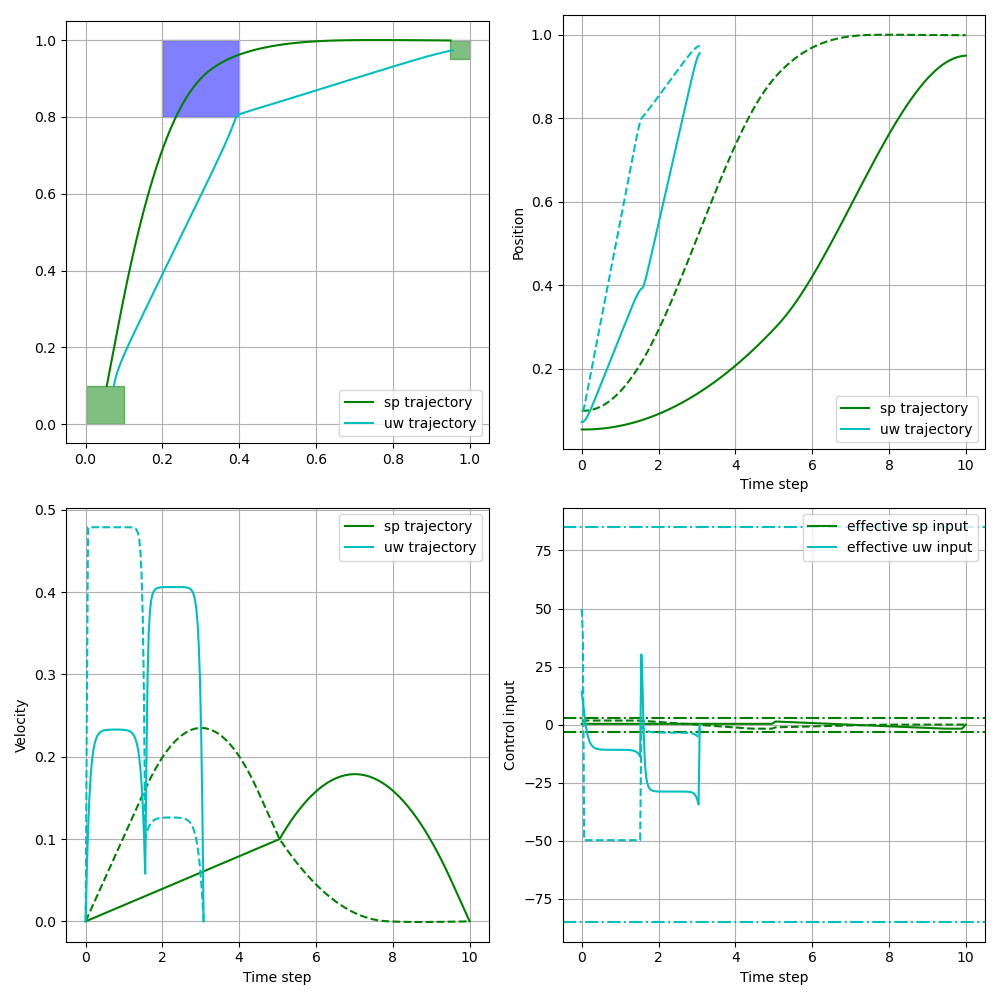
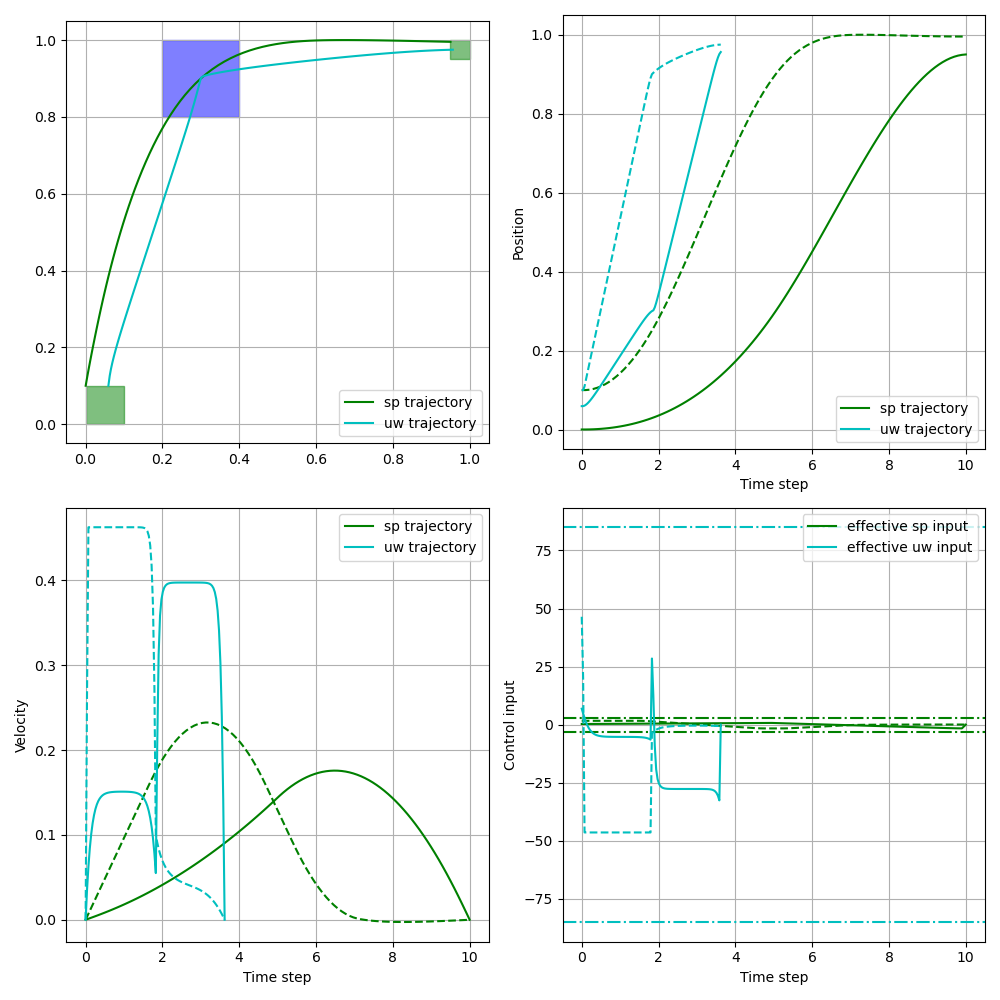
added spatial robustness to uw planner

diff --git a/Planning/main.py b/Planning/main.py
@@ -53,10 +53,10 @@ if True:
     opt.addConstr(x_vars[0, :] <= X0.upper_bounds)
     opt.addConstr(x_vars[-1, :] >= Xf.lower_bounds)
     opt.addConstr(x_vars[-1, :] <= Xf.upper_bounds)
-    opt.addConstr(x_vars[int(N/2), :] >= XA.lower_bounds)
-    opt.addConstr(x_vars[int(N/2), :] <= XA.upper_bounds)
 
     # spatial robustness of the specification (stay-in at N/2)
+    # opt.addConstr(x_vars[int(N/2), :] >= XA.lower_bounds)
+    # opt.addConstr(x_vars[int(N/2), :] <= XA.upper_bounds)
     delta = opt.addVar(lb=0, ub=np.inf, name="spatial_robustness")
     for face_idx in range(len(XA.b)):
         c = -XA.A[face_idx, :]@x_vars[int(N/2), 0:2] + XA.b[face_idx]
@@ -276,13 +276,19 @@ elif True:
     ocp.subject_to(x_vars[:,int(N/2)] >= XA.lower_bounds)
     ocp.subject_to(x_vars[:,int(N/2)] <= XA.upper_bounds)
 
+    # spatial robustness of the specification (stay-in at N/2)
+    delta = ocp.variable(1)
+    for face_idx in range(len(XA.b)):
+        c = -cs.mtimes(np.array([XA.A[face_idx, :]]),x_vars[0:2,int(N/2)]) + XA.b[face_idx]
+        ocp.subject_to(c >= delta)
+
     #TODO: add obstacle avoidance constraints
 
     # objective
-    cost_eq = dt_vars
+    cost_var = 100*dt_vars - 10000*delta
     # for i in range(N):
     #     cost_eq += (u_vars[:,i]).T@(u_vars[:,i])
-    ocp.minimize(cost_eq)
+    ocp.minimize(cost_var)
     opts = {'ipopt.print_level': 0, 'print_time': 0, 'ipopt.sb': 'yes',
             'verbose':False, 'ipopt.tol': 1e-6, 'ipopt.max_iter': 1000}
     ocp.solver('ipopt',opts)
